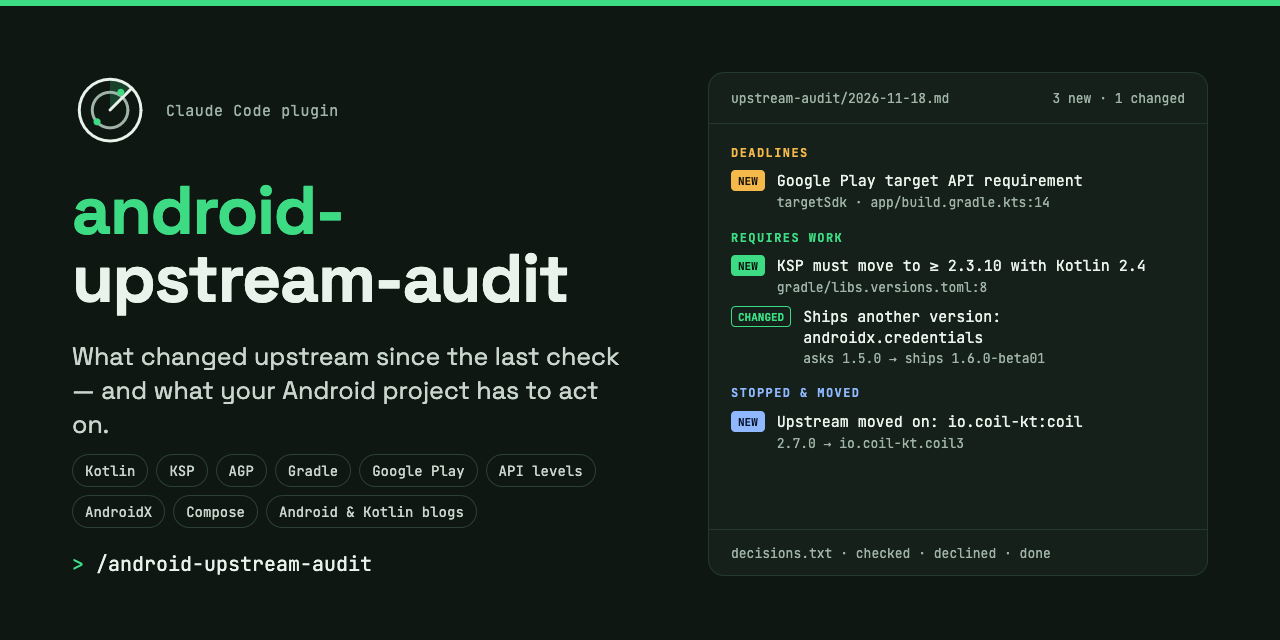
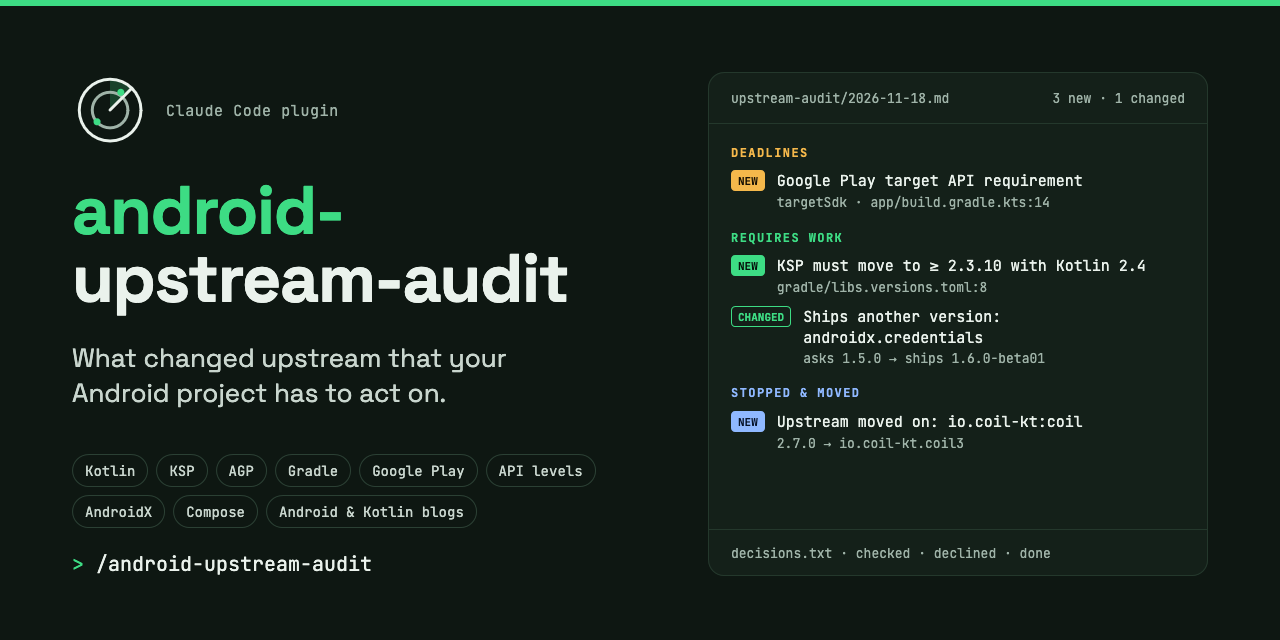
docs(docs): update the cover image tagline

Changed region(s): [[0.0625, 0.5312, 0.5, 0.6562], [0.0625, 0.6562, 0.0938, 0.6875]]

diff --git a/README.md b/README.md
@@ -1,6 +1,6 @@
 # android-upstream-audit
 
-![android-upstream-audit: what changed upstream since the last check, and what your Android project has to act on](.github/social-preview.png)
+![android-upstream-audit: what changed upstream that your Android project has to act on](.github/social-preview.png)
 
 A [Claude Code](https://code.claude.com) plugin that tells an Android team **what changed
 upstream since the last check that the project has to act on**: Kotlin and KSP releases, AGP and
